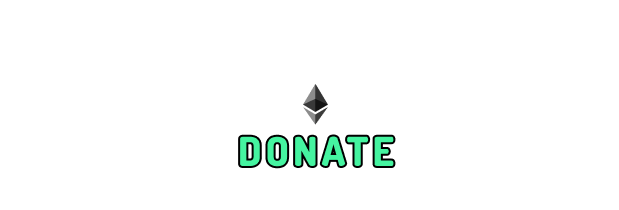
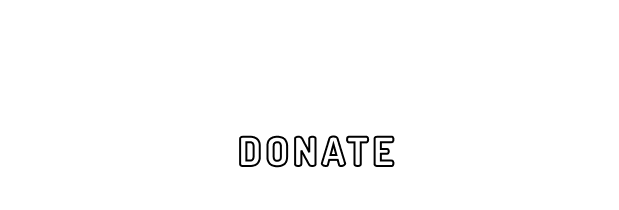
small styling changes

Changed region(s): [[0.3683, 0.6286, 0.6446, 0.8], [0.4911, 0.4, 0.5525, 0.6]]

diff --git a/fundraising/src/components/style/HomePage.css b/fundraising/src/components/style/HomePage.css
@@ -31,16 +31,17 @@ html, body{
 
 .home-body > h1 {
   font-size: 4em;
-  color: white;
-  font-weight: lighter;
+  color: black;
+  font-weight: 250;
+  font-family: Tahoma;
   position: absolute;
   top: -16%;
 }
 
 .home-body > h5 {
-  color: white;
+  color: grey;
   font-weight: lighter;
-  font-size: 1.1em;
+  font-size: 1.7em;
   position: absolute;
   top: -7%;
 }

diff --git a/fundraising/src/components/style/Header2.css b/fundraising/src/components/style/Header2.css
@@ -67,6 +67,7 @@ header {
     border: none;
     border: 1px solid black;
     overflow: hidden;
+    transition: all .3s ease-in;
 
 }
 
@@ -135,6 +136,10 @@ header {
 
 .account--button:hover .dropdown-menu {
     display: block;
+}
+
+.account-button:hover {
+    background: rgb(234, 103, 103);
 }
 
 .dropdown-menu a:hover {

diff --git a/fundraising/src/components/pages/CreateProject.js b/fundraising/src/components/pages/CreateProject.js
@@ -1,6 +1,5 @@
 import Header2 from '../headers/Header2'
 import '../style/CreateProject.css'
-import stars from '../images/stars.jpeg'
 import React, { Component } from 'react'
 
 class CreateProject extends Component {
